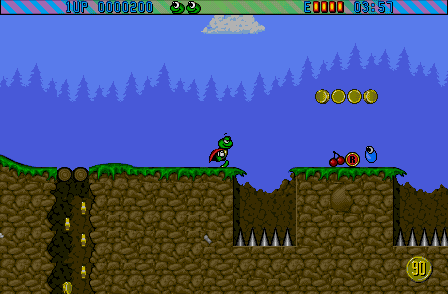
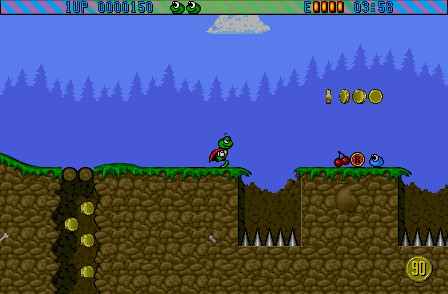
Superfrog: screenshots of the same game frame in both modes (project commit 79d2ac5)

diff --git a/superfrog/main.js b/superfrog/main.js
@@ -27,7 +27,10 @@ const ctl = new Int32Array(16);
 const frame = new Uint8Array(W * H * 3), enhFrame = new Uint8Array((336 + 2 * ENH_MX) * (262 + 32) * 3);
 const sceneBuf = new ArrayBuffer(PK_SIZE * SLOTS), mapBuf = new ArrayBuffer(MAP_BYTES), sceneU8 = new Uint8Array(sceneBuf), mapU8 = new Uint8Array(mapBuf);
 disp.scene = new SceneRenderer(sceneBuf, mapBuf, ctl);
-window.presentTest = { ctl, play(text) { window.__play = text.split('\n'); }, about: () => showAbout() };   // testy (present/TESTS.md): čítač snímků ctl[0], přehrání záznamu od začátku levelu
+// testy (present/TESTS.md): čítač snímků ctl[0], přehrání záznamu od začátku levelu
+window.presentTest = { ctl, play(text) { window.__play = text.split('\n'); }, about: () => showAbout(),
+  smooth(on) { disp.cfg.enhanced.smooth = on; },   // snímky do galerie: Vylepšeno bez mezipoloh = přesně snímek hry
+  redraw() { const ew = disp.wideHud() && ctl[6] === ENH_MX; disp.hudWide = ew; disp.present(frame, ew ? enhFrame : null); } };   // po pauze (P): poslední snímek znovu v aktuálním režimu (Originál i Vylepšeno ze stejného tiku)
 
 let disk = null, diskName = '', box = null, manifest = null, running = false, worker = null, menuPause = false, manualPause = false, muted = false;
 const shell = new WbMenu.Shell($('shell'), {

diff --git a/superfrog/shots/README.md b/superfrog/shots/README.md
@@ -3,6 +3,8 @@
 Game pixels, zoom 1, no CRT, no blur, device pixel ratio 1; made by `tools/present_shots.py` from the presentation page.
 The PNGs are kept out of git (`.gitignore`, game graphics) and go to the website package (`build/present/shots/`).
 
-- `original.png`: Original mode, 336 × 262 (HUD + the original 336 × 247 view) at the start of level 1, Magic Woods.
-- `enhanced.png`: Enhanced mode while running right, 448 × 294: the wider 448 × 279 view drawn from the level map around the original window, captured between two game frames by the smooth renderer.
+- `original.png` and `enhanced.png` show **the same game frame** (level 1, Magic Woods, running right, paused with P): Original mode
+  336 × 262 (HUD + the original 336 × 247 view) and Enhanced mode 448 × 294 (the wider 448 × 279 view drawn from the level map around the
+  original window, without in-between positions). The 320 × 200 play area at the centre is identical in both (0 pixels differ); only the HUD
+  is laid out wider.
 - `about.png`: the About screen shown at the end of level 1.
